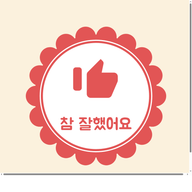
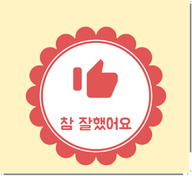
feat(brand): 앱 이름 '모아모아' + 아이콘 배경 연한 노란색
- 표시 이름 참잘했어요 → 모아모아 (manifest·타이틀·로고·알림·스플래시·
  위젯 표시명·Capacitor appName). 코드 식별자(appId·App Group·패키지)는 유지.
- 아이콘 배경 크림 → 연한 노랑(#FFF3C4)으로 재생성(192/512/maskable/
  apple-touch/svg, resources 1024). 도장 문구 '참 잘했어요'는 그대로.
- appver v21 → v22

Claude-Session: https://claude.ai/code/session_01EnxAyXekhF35GQ4No8rAPT

diff --git a/frontend/components/Dashboard.tsx b/frontend/components/Dashboard.tsx
@@ -103,7 +103,7 @@ export function Dashboard({ onLogout }: { onLogout: () => void }) {
   return (
     <div className="app">
       <header>
-        <span className="appver" title="빌드 버전(캐시 확인용)">v21</span>
+        <span className="appver" title="빌드 버전(캐시 확인용)">v22</span>
         <button className="gear" onClick={() => setSettings(true)} aria-label="설정">
           <Icon name="settings" size={18} />
         </button>
@@ -111,7 +111,7 @@ export function Dashboard({ onLogout }: { onLogout: () => void }) {
           {/* eslint-disable-next-line @next/next/no-img-element */}
           <img src="/icon.svg" alt="" className="logo-ic" />
           <span>
-            참잘했어요<span className="dot">.</span>
+            모아모아<span className="dot">.</span>
           </span>
         </div>
       </header>
@@ -282,7 +282,7 @@ function SettingsSheet({
     setNotif(p);
     if (p === "granted") {
       actions.updateSettings({ reminderEnabled: true, reminderTime: remindTime });
-      new Notification("참잘했어요", { body: `매일 ${remindTime}에 알려드릴게요! 오늘도 한 걸음 🌿` });
+      new Notification("모아모아", { body: `매일 ${remindTime}에 알려드릴게요! 오늘도 한 걸음 🌿` });
     }
   }
 

diff --git a/frontend/ios-native/MurukWidget/MurukWidget.swift b/frontend/ios-native/MurukWidget/MurukWidget.swift
@@ -219,7 +219,7 @@ private struct MediumView: View {
         VStack(alignment: .leading, spacing: 8) {
             HStack(spacing: 5) {
                 Image(systemName: "leaf.fill").font(.system(size: 12)).foregroundColor(brand)
-                Text("참잘했어요 · 오늘").font(.subheadline.bold()).foregroundColor(.primary)
+                Text("모아모아 · 오늘").font(.subheadline.bold()).foregroundColor(.primary)
                 Spacer()
                 if snap.totalCount > 0 {
                     Text("\(snap.doneCount)/\(snap.totalCount)")
@@ -272,7 +272,7 @@ struct MurukWidget: Widget {
         StaticConfiguration(kind: kind, provider: Provider()) { entry in
             MurukWidgetEntryView(entry: entry)
         }
-        .configurationDisplayName("참잘했어요")
+        .configurationDisplayName("모아모아")
         .description("오늘 할 일과 칭찬판 진행도를 보여줘요.")
         .supportedFamilies([.systemSmall, .systemMedium])
     }

diff --git a/frontend/lib/reminder.ts b/frontend/lib/reminder.ts
@@ -12,17 +12,17 @@ function fire(body: string) {
   // SW가 실제로 페이지를 제어 중일 때만 SW 알림 사용(없으면 ready가 영영 안 풀림) → 아니면 일반 Notification.
   if (navigator.serviceWorker?.controller) {
     navigator.serviceWorker.ready
-      .then((reg) => reg.showNotification("참잘했어요", opts))
+      .then((reg) => reg.showNotification("모아모아", opts))
       .catch(() => {
         try {
-          new Notification("참잘했어요", opts);
+          new Notification("모아모아", opts);
         } catch {
           /* ignore */
         }
       });
   } else {
     try {
-      new Notification("참잘했어요", opts);
+      new Notification("모아모아", opts);
     } catch {
       /* ignore */
     }

diff --git a/frontend/app/layout.tsx b/frontend/app/layout.tsx
@@ -3,10 +3,10 @@ import Script from "next/script";
 import "./globals.css";
 
 export const metadata: Metadata = {
-  title: "참잘했어요",
+  title: "모아모아",
   description: "오늘 할 일을 해내고 칭찬 도장을 모으는 습관 앱",
   manifest: "/manifest.json",
-  appleWebApp: { capable: true, statusBarStyle: "default", title: "참잘했어요" },
+  appleWebApp: { capable: true, statusBarStyle: "default", title: "모아모아" },
   icons: {
     icon: [
       { url: "/icon.svg", type: "image/svg+xml" },

diff --git a/frontend/components/SplashScreen.tsx b/frontend/components/SplashScreen.tsx
@@ -8,7 +8,7 @@ export function SplashScreen() {
     <div className="splash">
       <div className="stamp-hero" aria-hidden dangerouslySetInnerHTML={{ __html: stampSVG(150) }} />
       <div className="splash-logo">
-        참잘했어요<span style={{ color: "#eafaec" }}>.</span>
+        모아모아<span style={{ color: "#eafaec" }}>.</span>
       </div>
       <div className="splash-hint">잠시만요…</div>
     </div>

diff --git a/frontend/components/LoginGate.tsx b/frontend/components/LoginGate.tsx
@@ -46,7 +46,7 @@ export function LoginGate({ onLogin }: { onLogin: () => void }) {
       </div>
 
       <h1 className="login-title">
-        참잘했어요<span style={{ color: "var(--primary)" }}>.</span>
+        모아모아<span style={{ color: "var(--primary)" }}>.</span>
       </h1>
 
       <div className="login-features" style={{ marginTop: 14 }}>

diff --git a/frontend/capacitor.config.ts b/frontend/capacitor.config.ts
@@ -4,7 +4,7 @@ import type { CapacitorConfig } from "@capacitor/cli";
 // webDir 는 `npm run build:app` (BUILD_TARGET=app next build) 가 만드는 정적 export 폴더.
 const config: CapacitorConfig = {
   appId: "com.muruk.app",
-  appName: "참잘했어요",
+  appName: "모아모아",
   webDir: "out",
   backgroundColor: "#f3faf1",
   ios: {
